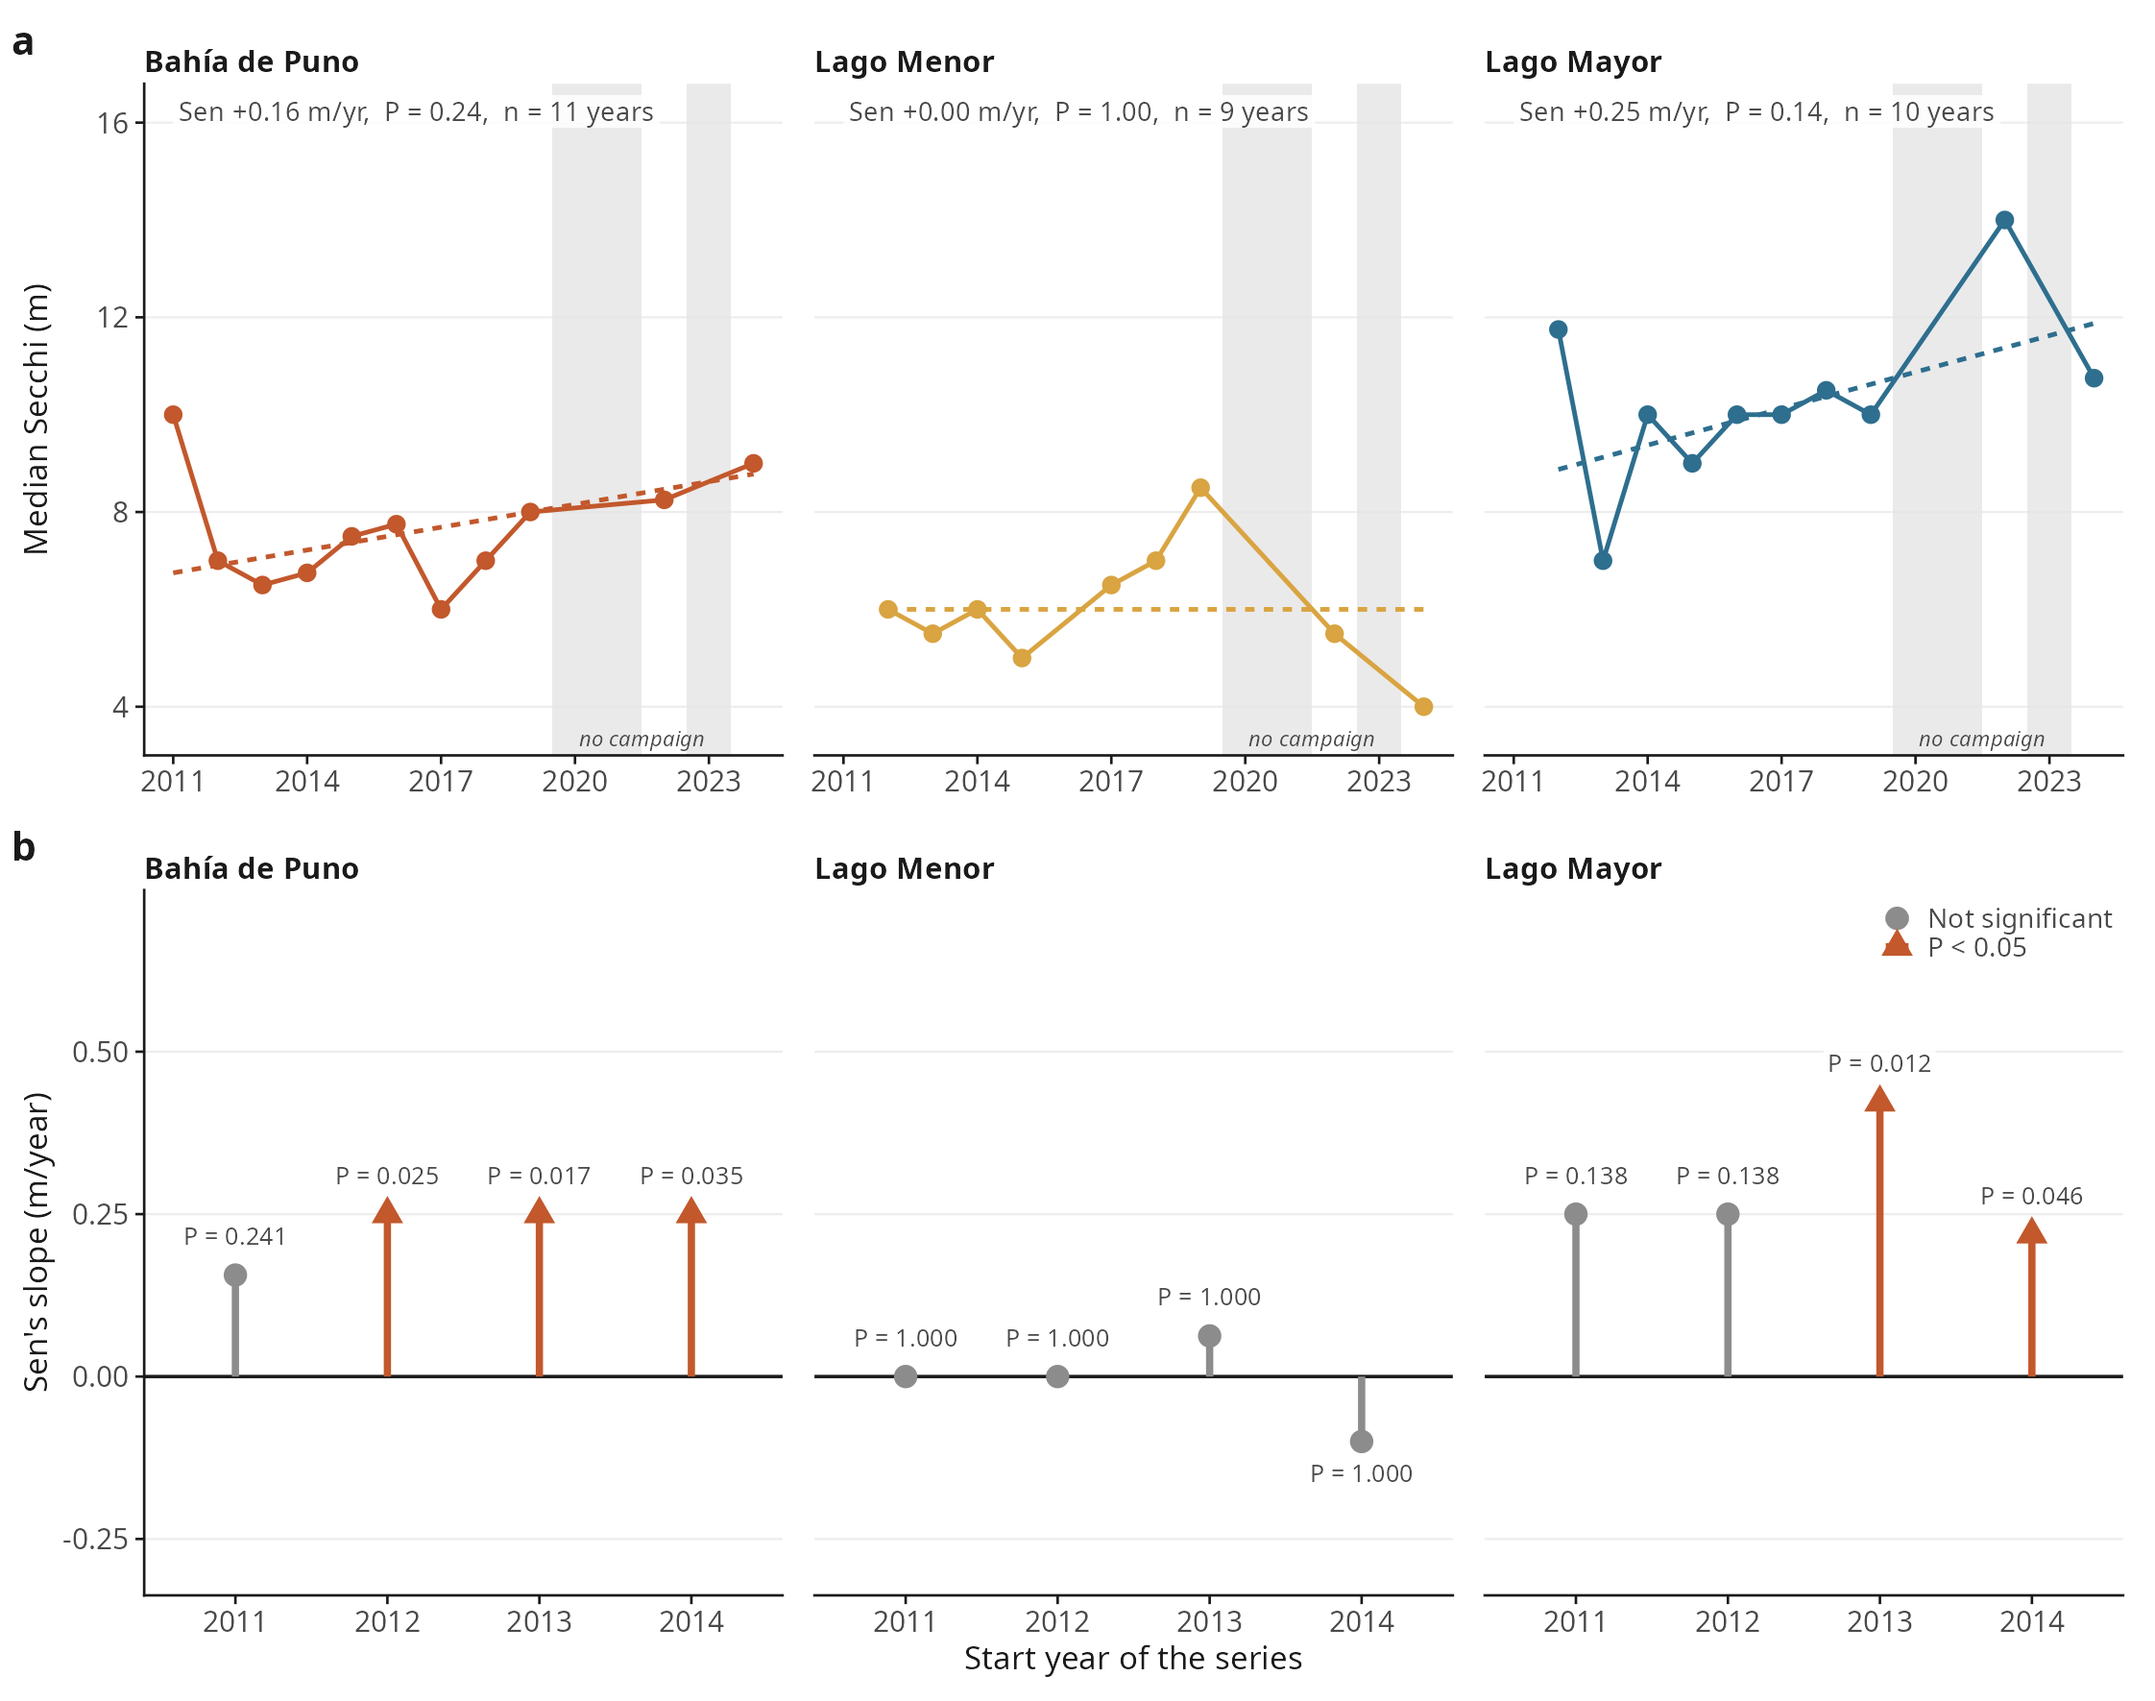
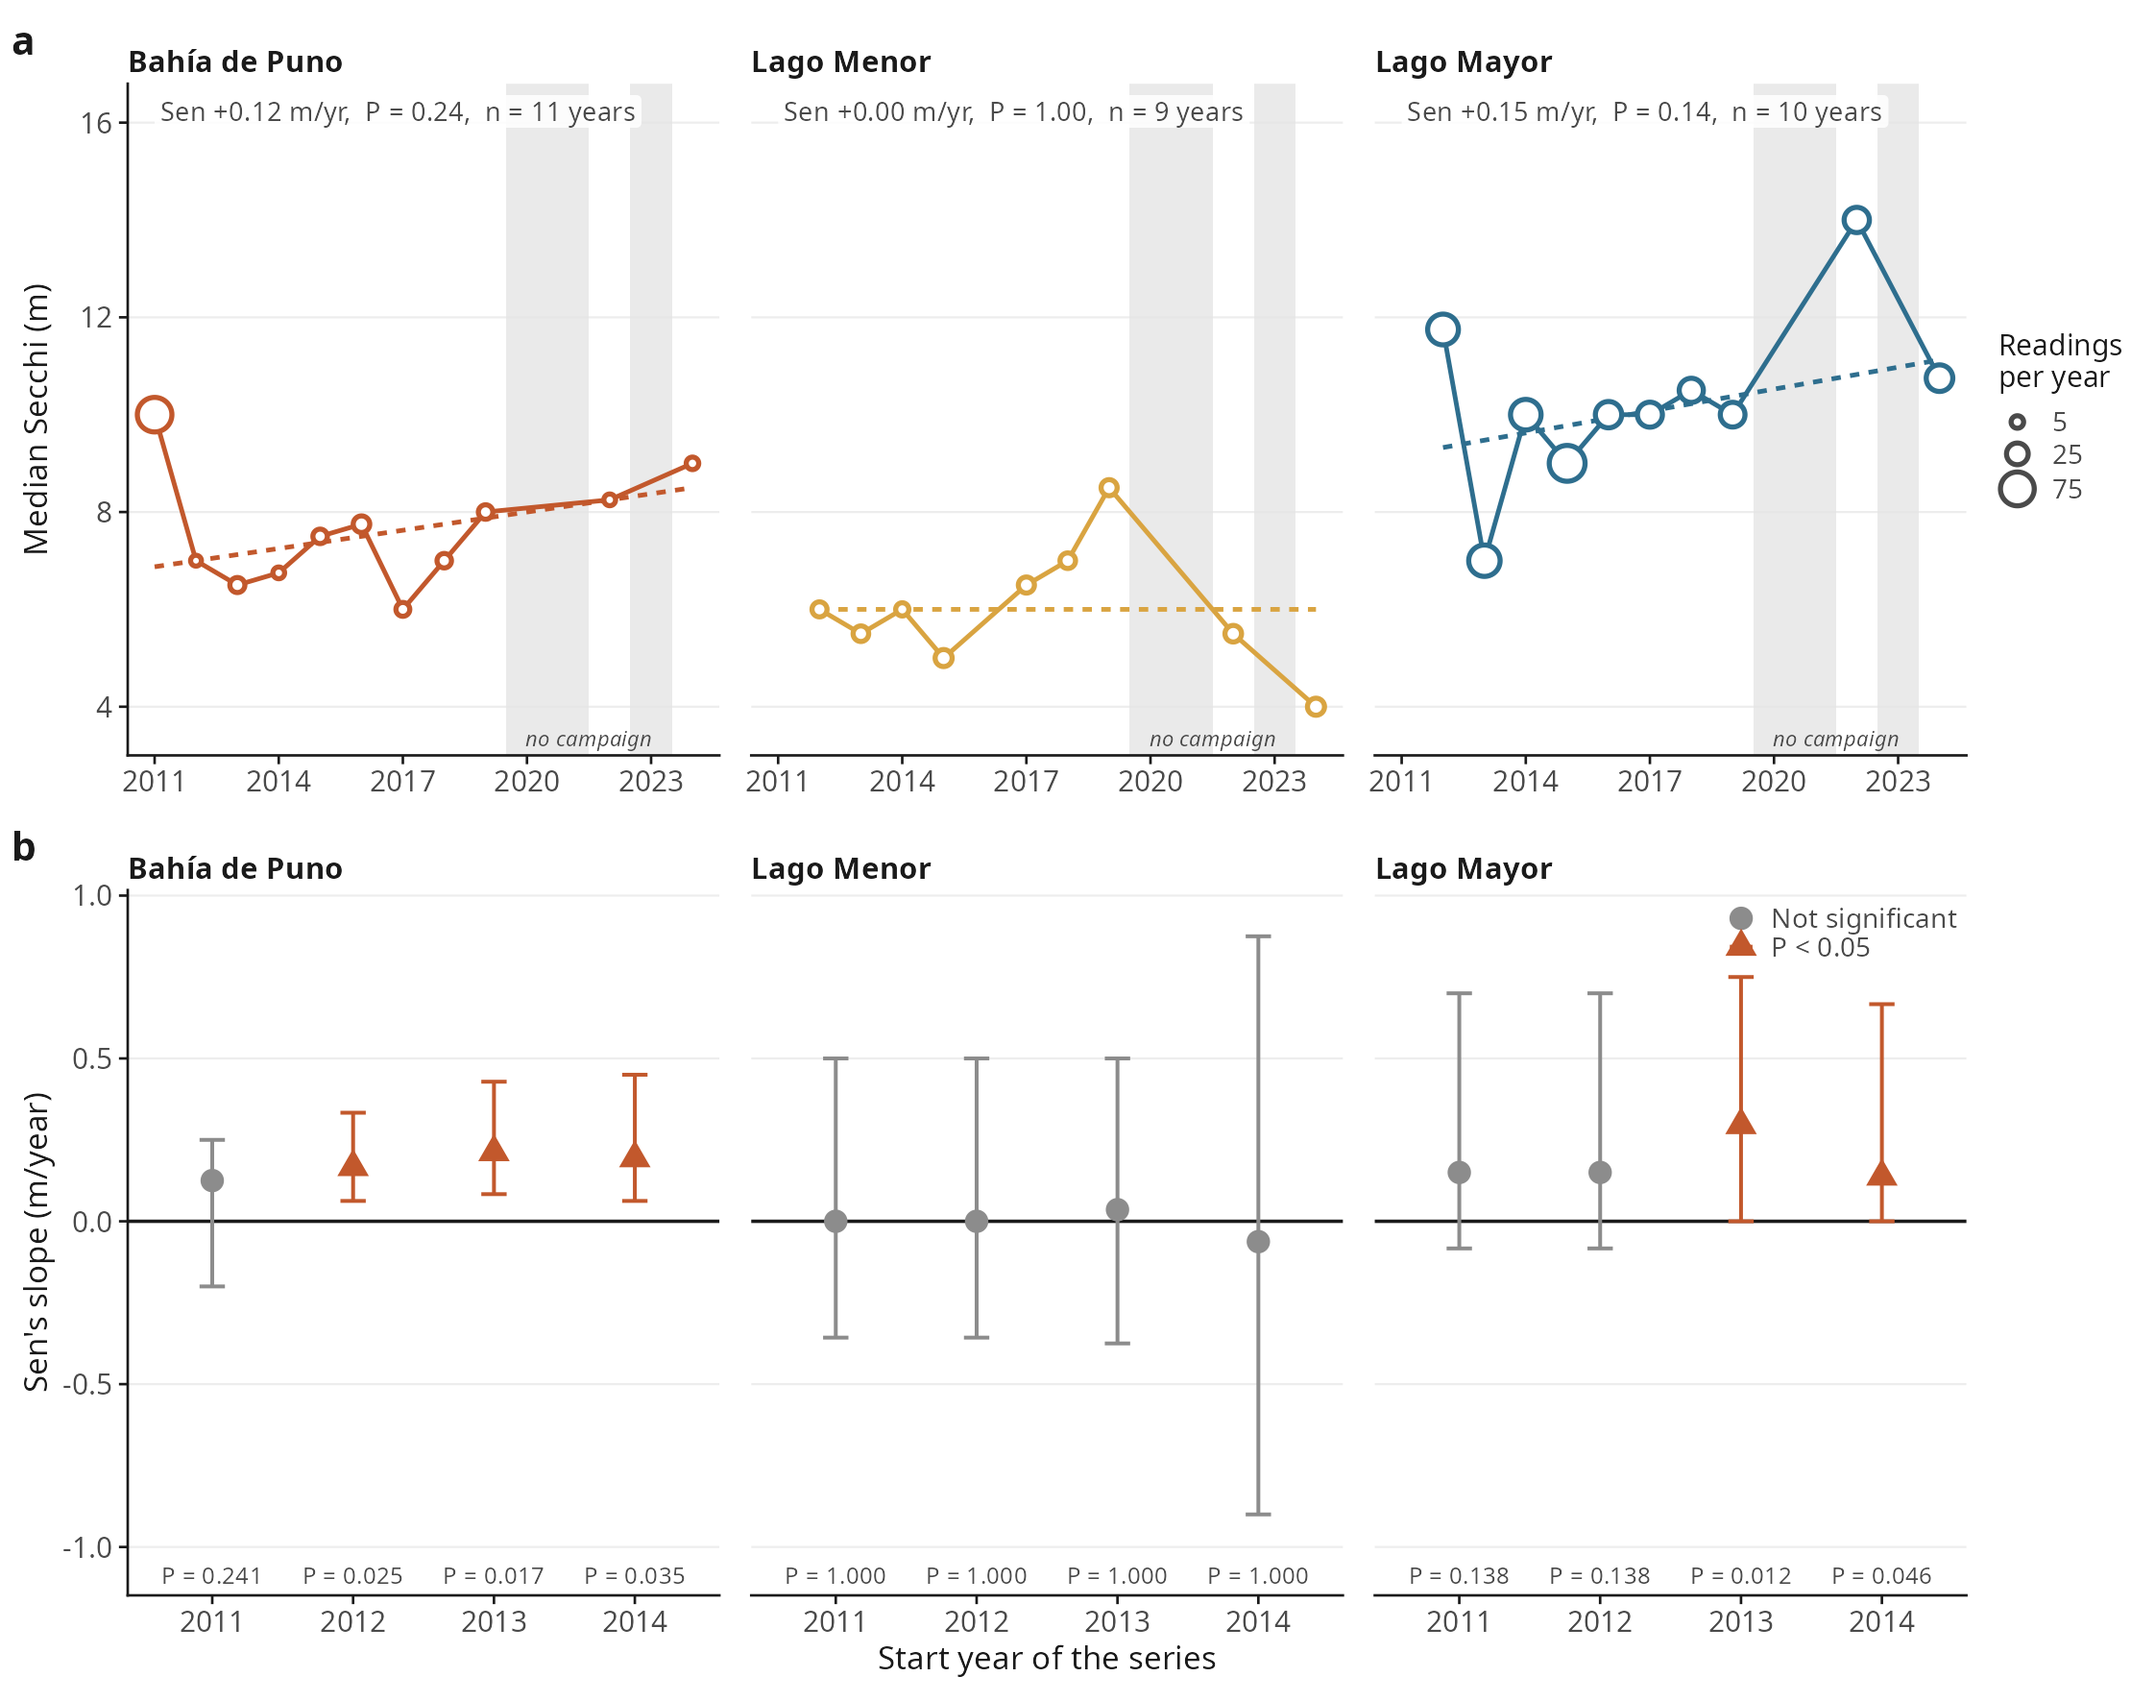
Compute Sen's slope on calendar years
mann_kendall() divided each pairwise difference by the index gap (j - i), so
2019 -> 2022 counted as one year and the slopes were inflated by up to 70%
(Lago Mayor from 2013: 0.42 -> 0.30 m/yr). Mann-Kendall P depends only on
order and is unchanged, as are all verdicts. The start-year slopes and P are
now exported as macros instead of being typed in the text.

The trend figure sizes each annual median by its number of readings and adds
approximate 95% intervals (Gilbert 1987) to the start-year slopes.

diff --git a/pipeline/p05_fix4_temporal.py b/pipeline/p05_fix4_temporal.py
@@ -89,9 +89,15 @@ def annual_medians():
         "las tendencias.")
 
 
-def mann_kendall(x):
-    """Mann-Kendall no parametrico + pendiente de Sen."""
+def mann_kendall(x, t):
+    """Mann-Kendall no parametrico + pendiente de Sen.
+
+    La pendiente se calcula sobre los anios reales (t), no sobre la posicion en
+    la serie: faltan 2020, 2021 y 2023, y dividir por j - i contaba 2019 -> 2022
+    como un anio e inflaba la pendiente hasta un 70 %. El estadistico de
+    Mann-Kendall solo depende del orden, asi que la P no cambia."""
     x = np.asarray(x, float)
+    t = np.asarray(t, float)
     n = len(x)
     s = sum(np.sign(x[j] - x[i]) for i in range(n - 1) for j in range(i + 1, n))
     _, counts = np.unique(x, return_counts=True)
@@ -101,7 +107,7 @@ def mann_kendall(x):
         return 0.0, 1.0, 0.0
     z = (s - np.sign(s)) / np.sqrt(var) if s != 0 else 0.0
     p = 2 * (1 - stats.norm.cdf(abs(z)))
-    slopes = [(x[j] - x[i]) / (j - i) for i in range(n - 1) for j in range(i + 1, n)]
+    slopes = [(x[j] - x[i]) / (t[j] - t[i]) for i in range(n - 1) for j in range(i + 1, n)]
     return float(z), float(p), float(np.median(slopes)) if slopes else 0.0
 
 
@@ -181,7 +187,7 @@ def main():
                .secchi_median.sort_index())
         if len(sub) < 4:
             continue
-        z_stat, p, slope = mann_kendall(sub.values)
+        z_stat, p, slope = mann_kendall(sub.values, sub.index.values)
         trows.append({"zone": z, "zone_label": ZONE_LABELS[z],
                       "n_years": int(len(sub)), "start_year": int(sub.index.min()),
                       "z": round(z_stat, 3), "p_value": round(p, 4),
@@ -210,7 +216,7 @@ def main():
                    .set_index("year").secchi_median.sort_index())
             if len(sub) < 4:
                 continue
-            _, p, slope = mann_kendall(sub.values)
+            _, p, slope = mann_kendall(sub.values, sub.index.values)
             sig = p < 0.05
             sens.append({"zone": z, "zone_label": ZONE_LABELS[z],
                          "start_year": start, "n_years": int(len(sub)),

diff --git a/pipeline/p09_export_manuscript_numbers.py b/pipeline/p09_export_manuscript_numbers.py
@@ -215,6 +215,11 @@ def main():
     ts = load_tidy("trend_start_year_sensitivity.csv")
     if not ts.empty:
         N["trend_flips"] = int(ts.significant_at_005.sum())
+        # cada zona y anio inicial: el texto cita el caso 2013 y no debe teclearlo
+        for _, r in ts.iterrows():
+            k = r.zone_label.lower().replace(" ", "_").replace("í", "i")
+            N[f"trend_{k}_from_{int(r.start_year)}_slope"] = float(r.sen_slope_m_per_yr)
+            N[f"trend_{k}_from_{int(r.start_year)}_p"] = float(r.p_value)
         N["trend_combinations"] = int(len(ts))
 
     # --- incertidumbre ------------------------------------------------------
